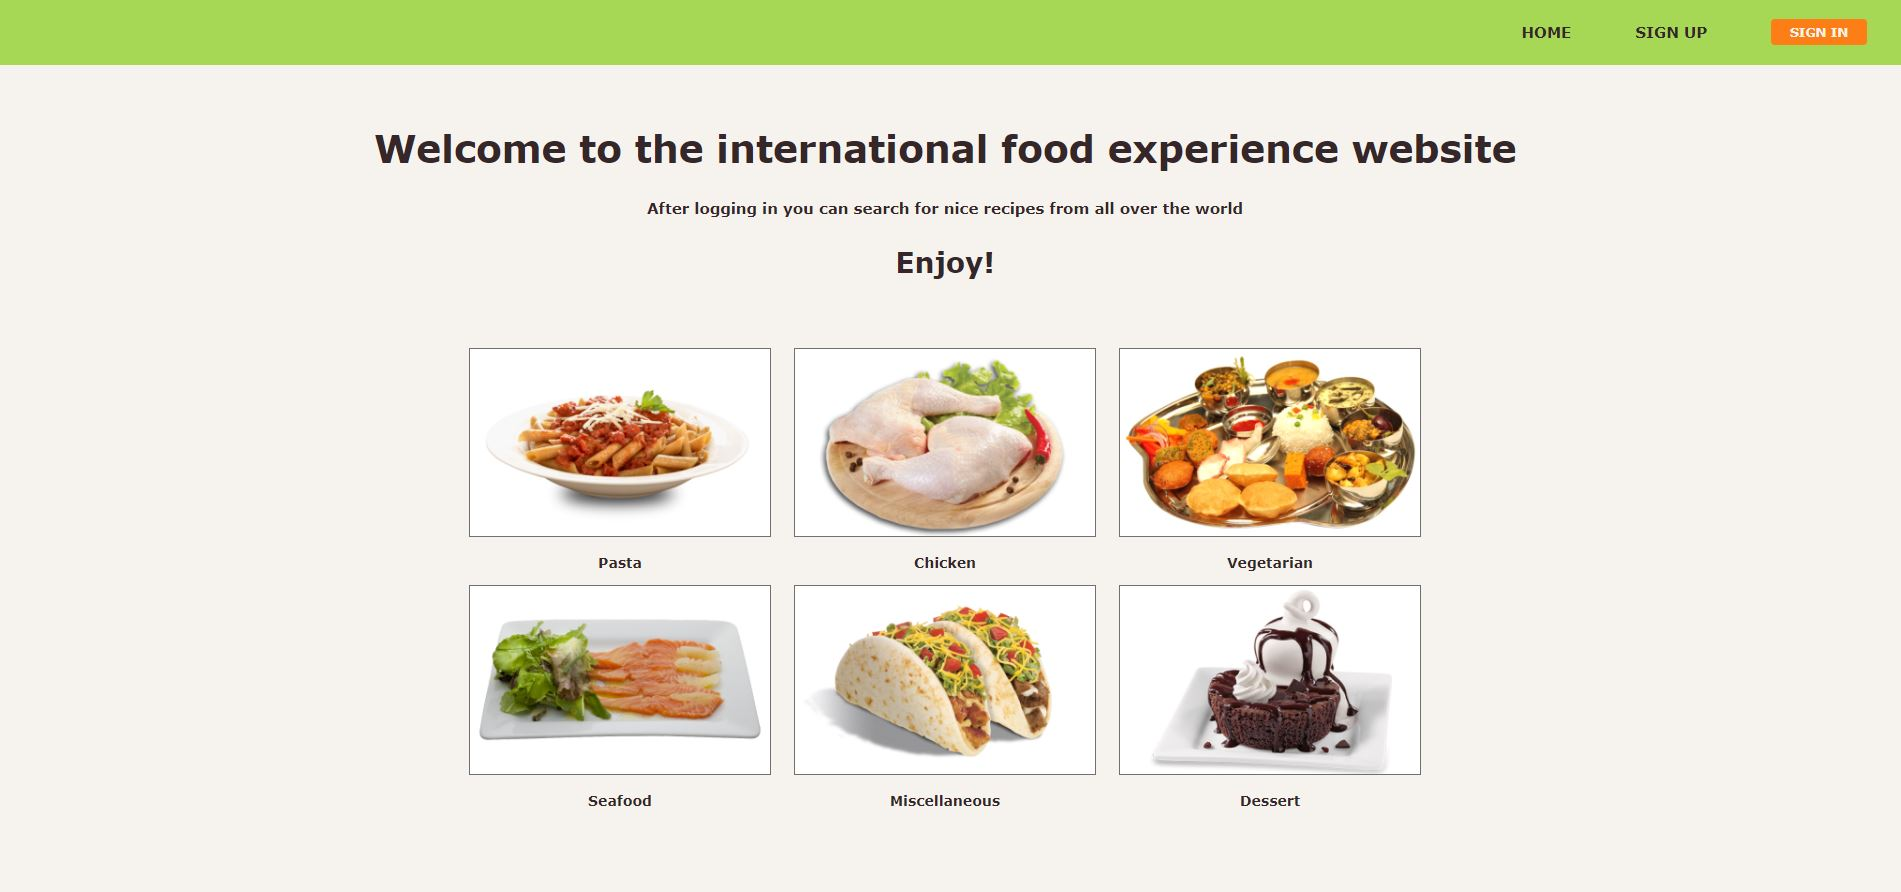
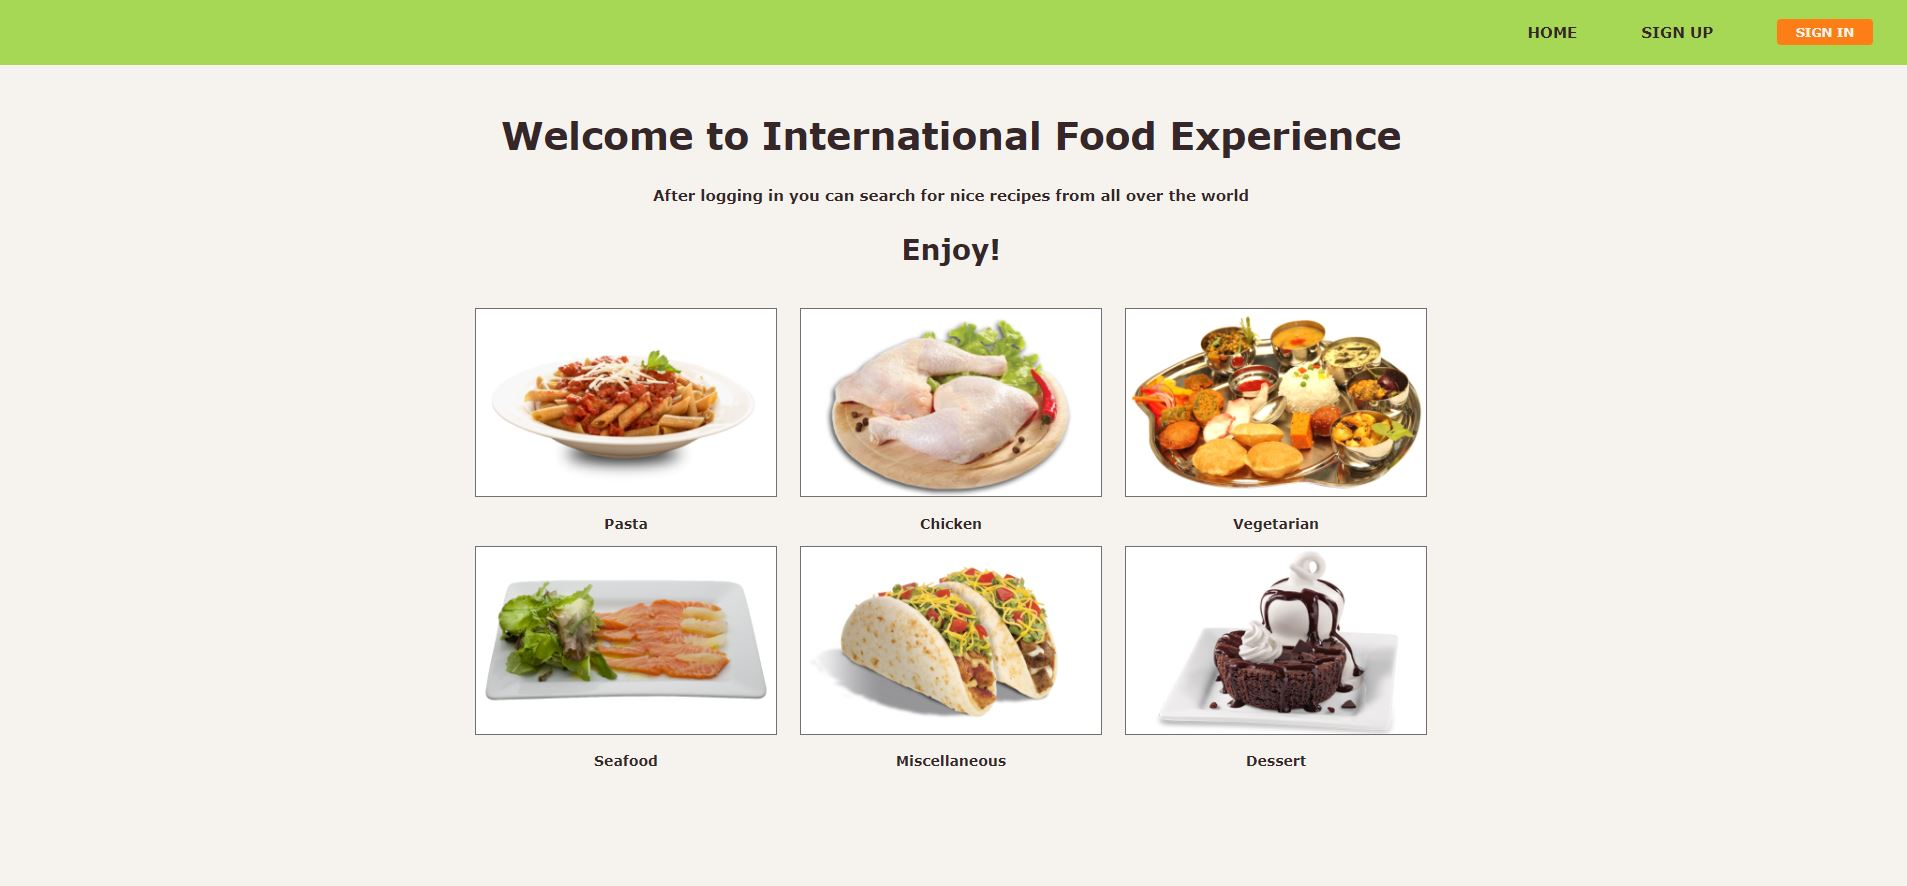
homepage title changed and README updated, also table of content and necessities added

diff --git a/src/pages/homePage/HomePage.js b/src/pages/homePage/HomePage.js
@@ -8,7 +8,7 @@ function HomePage() {
     return (
         <div className={styles.container}>
             <article className={styles["introduction-text"]}>
-                <h1>Welcome to the international food experience website</h1>
+                <h1>Welcome to International Food Experience </h1>
                 <h4>After logging in you can search for nice recipes from all over the world</h4>
                 <h2>Enjoy!</h2>
             </article>

diff --git a/src/pages/signUpPage/SignUpPage.js b/src/pages/signUpPage/SignUpPage.js
@@ -29,6 +29,7 @@ function SignUpPage() {
             }, 2000);
 
         } catch (e) {
+            console.error(e)
             const error = e.response.data.message;
             setErrorMessage(error.substring(7));
         }

diff --git a/README.md b/README.md
@@ -3,6 +3,17 @@
 ![home-page](src/assets/screenshot-home-page.JPG)
 
 
+## Table of content
+* Introduction
+* Necessities
+* Installation Manual
+    - Installing the application
+    - Running the application
+    - Running tests
+* Sign Up
+* Sign In
+
+
 ## Introduction
 Many people will ask themselves what they should eat today. This is why this application is useful.
 After registration people can log in and start searching for a nice recipe. If the user needs some inspiration
@@ -18,6 +29,13 @@ The application is mobile friendly, so it is also possible to search for a recip
 ![search-page-with-result](src/assets/screenshot-search-page-with-result.JPG)
 
 ![recipe-page](src/assets/screenshot-recipe-page.JPG)
+
+
+## Necessities
+* Text editor to run the application
+* Git in order to acces the repository
+* Internet connection  
+* No API key needed
 
 
 ## Installation Manual
